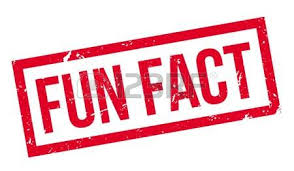
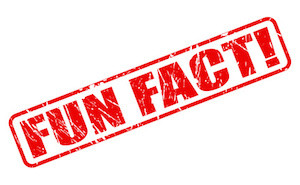
fun_fact without watermark. fact picture made out of fun_fact pic. added tracking. added FB preview pic and desc.

diff --git a/blog/how-it-all-started.html b/blog/how-it-all-started.html
@@ -9,6 +9,15 @@
     <meta name="description" content="">
     <meta name="author" content="">
 
+    <meta property="og:image" content="http://spring-congress.eestec.net/img/blog/blog_01_elected_fb_preview.jpg" />
+	<meta property="og:image:width" content="1200" /> 
+	<meta property="og:image:height" content="630" />
+
+	<meta property="og:url" content="https://spring-congress.eestec.net/blog/how-it-all-started.html" />
+
+    <meta property="og:title" content="EESTEC Congress 2017 Blog - How it all started" />
+    <meta property="og:description" content="Standing ovations. People cheering. Feelings of happiness, pride, excitement! No place for thoughts about the next year and the hard work ahead of us..." />
+
     <title>How it all started - EESTEC Spring Congress 2017</title>
 
     <link rel="shortcut icon" href="../img/favicon.png" type="image/x-icon">
@@ -53,8 +62,8 @@
     <script type="text/javascript">
         // http://developer.piwik.org/api-reference/tracking-javascript
         // za sledenje ob ogledu vsakega bloga posebi?
-        // var tracker = window.Piwik.getTracker( "//eestec-lj.org/stats/piwik.php", 6);
-        // tracker.trackEvent(category, action, [name], [value]) 
+        var tracker = window.Piwik.getTracker( "//eestec-lj.org/stats/piwik.php", 6);
+        tracker.trackEvent("blog", "opened", "how it all started") ;
     </script>
 </head>
 
@@ -96,7 +105,7 @@
               <a class="page-scroll" href="../index.html#eestec">EESTEC</a>
             </li>
             <li>
-                <a class="page-scroll" href="../index.html#organizers">Organizers</a>
+                <a class="page-scroll" href="../index.html#organisers">Organisers</a>
             </li>
             <li>
 
@@ -133,7 +142,7 @@
         <div class="container">
             <div class="row" style="width:90%; margin: 0 auto;">
                 <div class="col-lg-8 col-lg-offset-2 col-md-10 col-md-offset-1 text-justify">
-                    <p><em>Standing ovations. People cheering. Feelings of happiness, pride, excitement! No place for thoughts about the next year and the hard work ahead of us. This is not important at this moment. We are elected. True, we were the only candidate. True, without our candidature, things would get really complicated. So it kind of made sense to just elect the first one that came along. But did it? And if yes, why almost unanimously? Looks like we convinced a bunch of people with a candidature that was quickly put together. In a matter of minutes. On one side of A5 paper sheet. Written with pencil! A candidature that could put the very existence of the association at stake.</em></p>
+                    <p><em>Standing ovations. People cheering. Feelings of happiness, pride, excitement! No place for thoughts about the next year and the hard work ahead of us. This is not important at this moment. We are elected. True, we were the only candidate. True, without our candidature, things would get really complicated. So it kind of made sense to just elect the first one that came along. But did it? And if yes, why almost unanimously? Looks like we convinced a bunch of people with a candidature that was quickly put together. In a matter of minutes. On one side of an A5 paper sheet. Written with a pencil! A candidature that could put the very existence of the association at stake.</em></p>
 
                     <div class="row">
 	                    <div class="col-md-6 col-sm-6">
@@ -149,7 +158,7 @@
 
 
 
-                    <p>So you can imagine the effort that the International Board put into finding the next Spring Congress Organizing Committee (SCOC), before and during Congress. Still, no one applied. Maybe it was just an unlucky coincidence due to various conditions in each LC. Who knows…</p>
+                    <p>So you can imagine the effort that the International Board put into finding the next Spring Congress Organising Committee (SCOC), before and during Congress. Still, no one applied. Maybe it was just an unlucky coincidence due to various conditions in each LC. Who knows…</p>
 
                     <p>The last GM came. Since breakfast, there were quiet rumours going around about who might step up at the last minute and run for the next SCOC. International Board has again called out for an LC that would run for SCOC. Still, no reaction.</p>
 
@@ -171,7 +180,7 @@
 
                     <p>It was then that we said: ”Fuck it, let’s do it ourselves! :D” I still remember feelings of excitement mixed with dark thoughts of the year upon us.</p>
 
- 							<img class="img-responsive" src="../img/blog/fact.png" alt="" title="" style="max-width: 8em; position:relative; float:left; padding-right: 2em; padding-bottom:1em">
+ 							<img class="img-responsive" src="../img/blog/fact.jpg" alt="" title="" style="max-width: 8em; position:relative; float:left; padding-right: 2em; padding-bottom:1em">
                     		<span class="text-left  text-muted "><em>Don’t get the impression that this decision was based on our current state of mind and that the emotions clouded our judgement ;) As an LC, Ljubljana has been steadily progressing for the last few years, we have a good relationship with faculties and university, we established contact with most of the major EECS companies in Slovenia, and our members are very skilled and experienced … We thought of organising a Congress in the near future, but, well, you know what they say. The Future is Now!</em></span>
 
                     

diff --git a/index.html b/index.html
@@ -105,7 +105,7 @@
               <a class="page-scroll" href="#eestec">EESTEC</a>
             </li>
             <li>
-                <a class="page-scroll" href="#organizers">Organizers</a>
+                <a class="page-scroll" href="#organisers">Organisers</a>
             </li>
 <!--             <li>
                 <a class="page-scroll" href="blog/blog.html"><span class="blog-1-krogc">1</span>Blog</a>
@@ -605,8 +605,8 @@
       </div>
     </section>
 
-    <!-- Organizers Section -->
-    <section id="organizers" class="bg-light-gray">
+    <!-- Organisers Section -->
+    <section id="organisers" class="bg-light-gray">
       <div class="container">
         <div class="row">
           <div class="col-lg-12 text-center">

diff --git a/blog/blog.html b/blog/blog.html
@@ -90,7 +90,7 @@
               <a class="page-scroll" href="../index.html#eestec">EESTEC</a>
             </li>
             <li>
-                <a class="page-scroll" href="../index.html#organizers">Organizers</a>
+                <a class="page-scroll" href="../index.html#organisers">Organisers</a>
             </li>
             <li>
                 <a class="page-scroll" href="../blog/blog.html"><span class="blog-1-krogc">1</span>Blog</a>

diff --git a/blog/template_post.html b/blog/template_post.html
@@ -96,7 +96,7 @@
               <a class="page-scroll" href="../index.html#eestec">EESTEC</a>
             </li>
             <li>
-                <a class="page-scroll" href="../index.html#organizers">Organizers</a>
+                <a class="page-scroll" href="../index.html#organisers">Organisers</a>
             </li>
             <li>
                 <a class="page-scroll" href="../blog/blog.html"><span class="blog-1-krogc">1</span>Blog</a>
